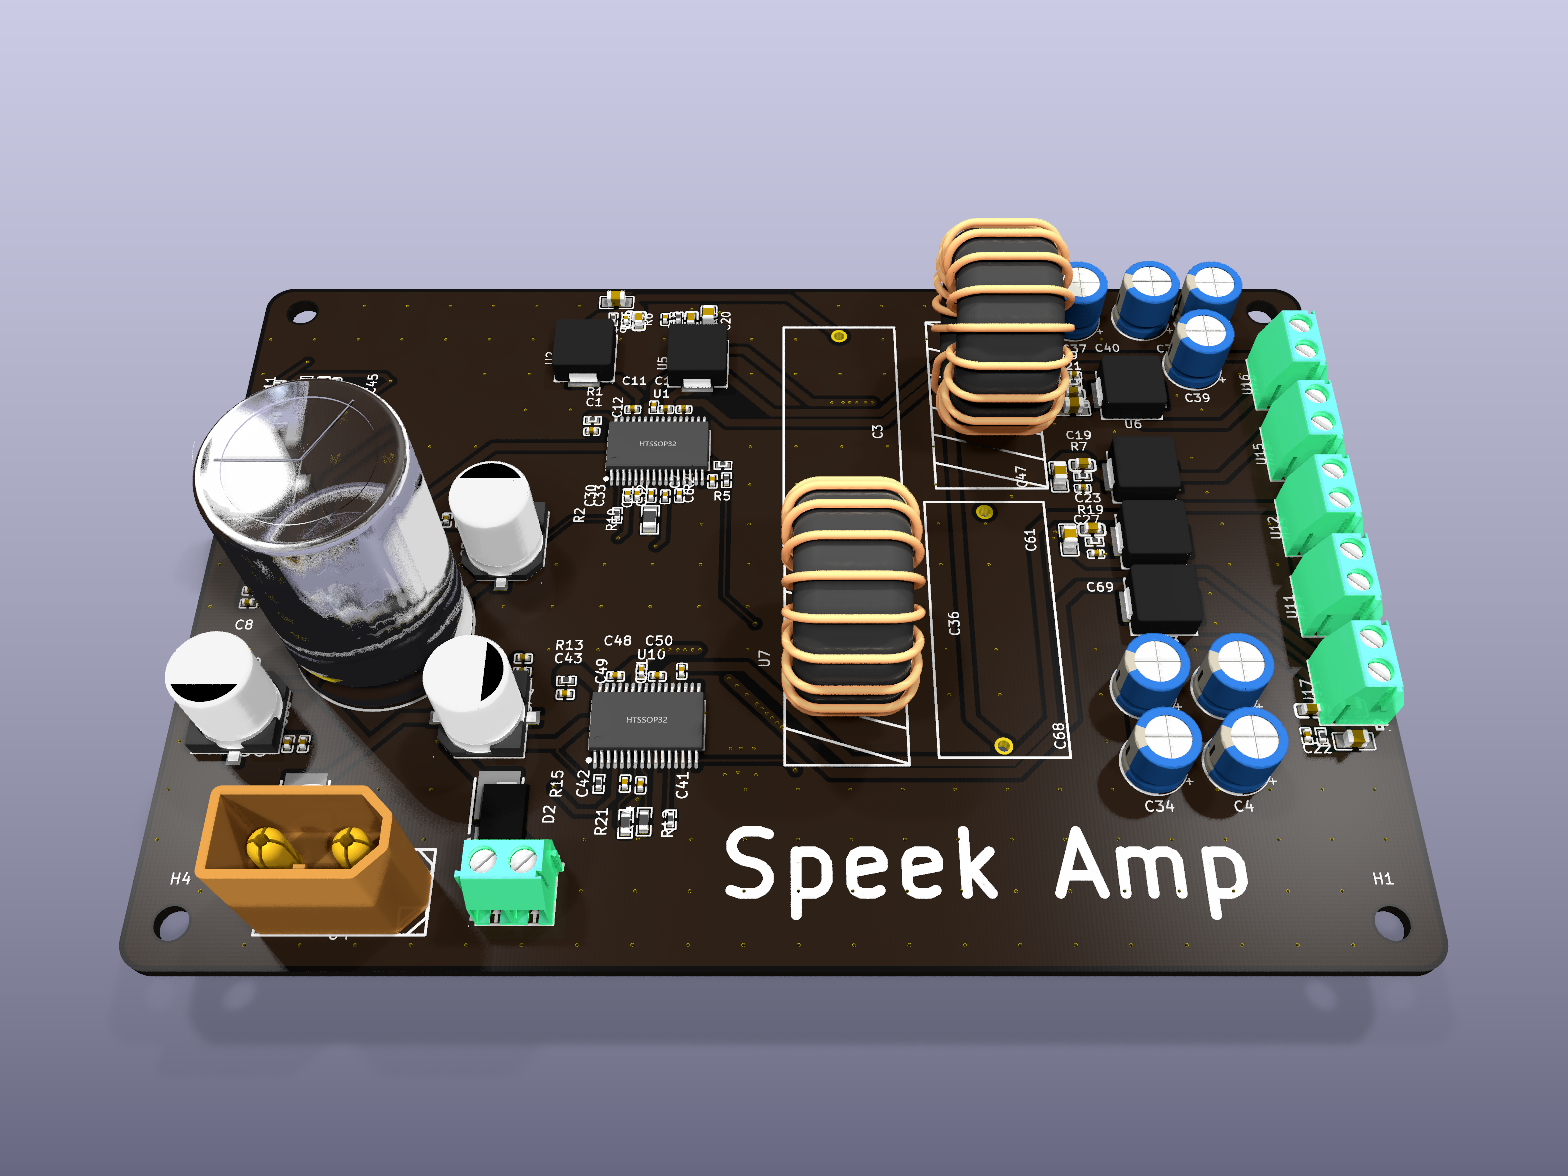
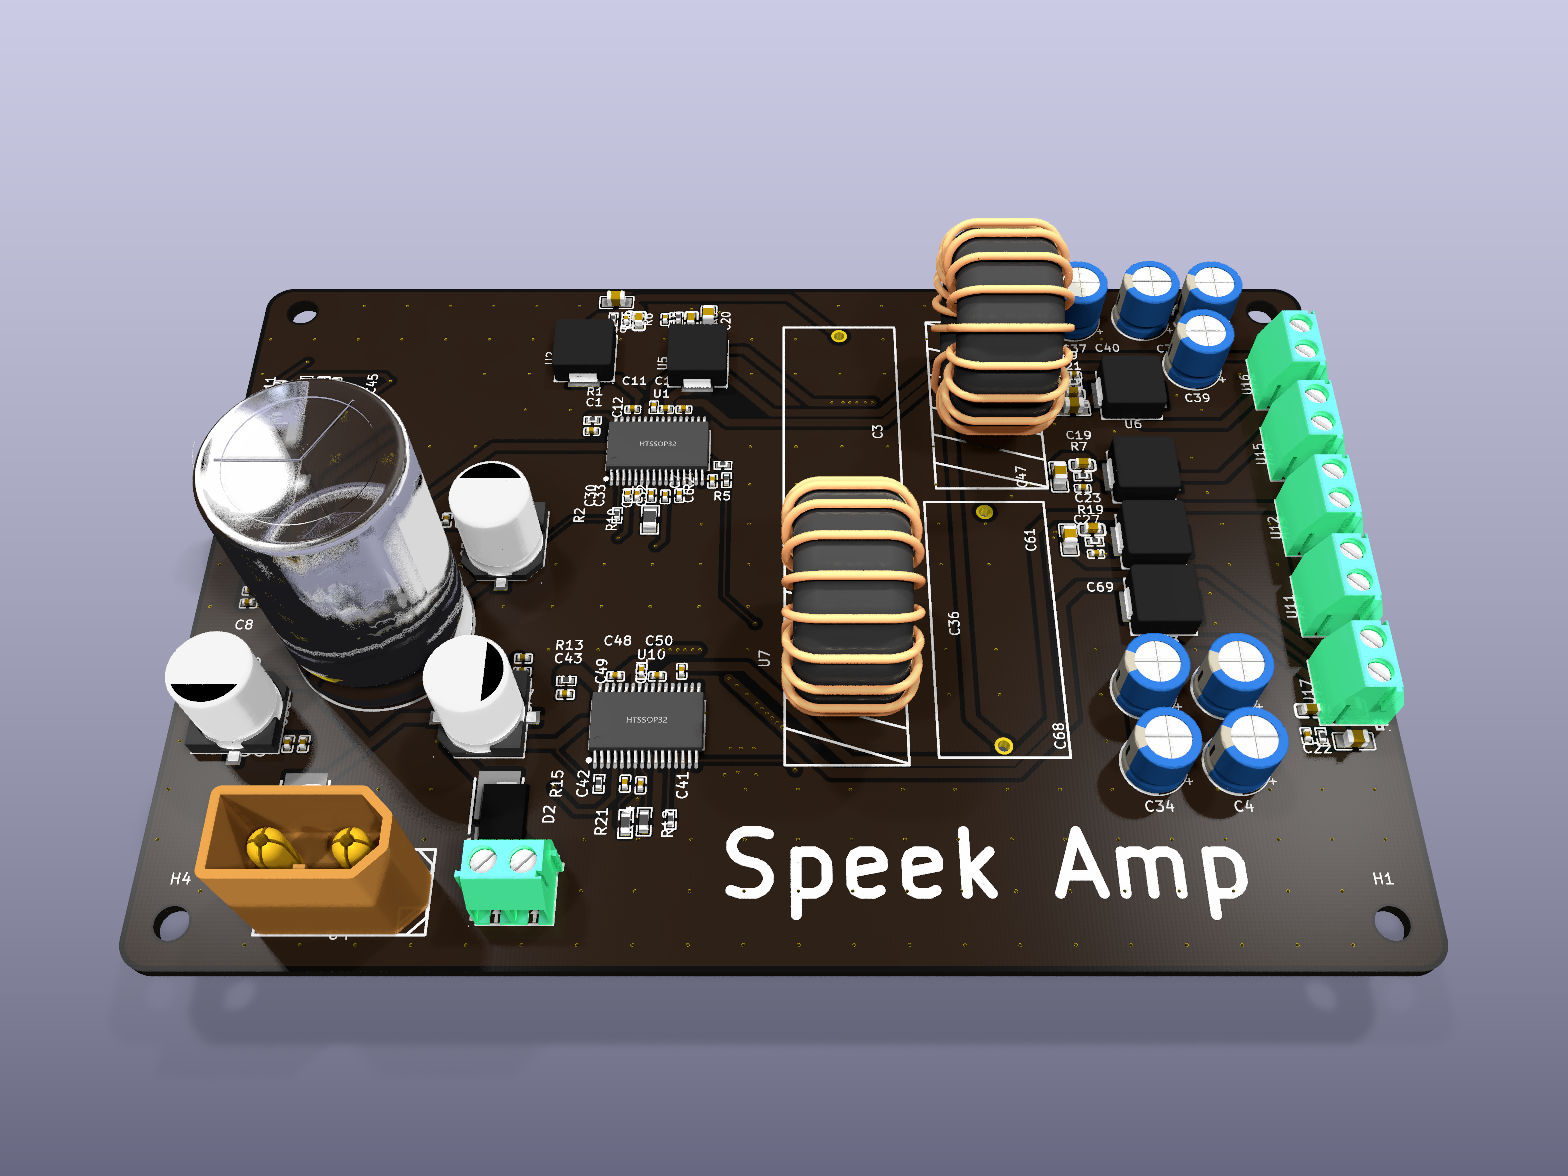
the README

Changed region(s): [[0.125, 0.398, 0.3125, 0.551], [0.1875, 0.551, 0.2188, 0.5816]]

diff --git a/README.md b/README.md
@@ -1,5 +1,7 @@
 # speek
 
+![speek](docs/banner.png)
+
 A modular speaker system. Right now, it has a couple of boards:
 
 - Speek Amp: This is the flagship amplifier. It's a hybrid 2.1 design using the TPA3116D2 chip. It's built to handle 4Ω speakers. It outputs lines for a mono subwoofer, two stereo woofers, and two stereo tweeters.
@@ -18,25 +20,26 @@ Why the monorepo?
 
 Because it's one project even though it has multiple boards. idk, Madhav reccommended it.
 
-- A good README
-- Source files for your project
+Checklist:
+
+- [x] A good README
+- [x] Source files for your project
     - This includes hardware design, firmware, 3D assemblies, etc
-- Production files (if applicable)
+- [x] Production files (if applicable)
     - You'll find gerbers, fabrication BOMs, and PnP files at the following locations:
       - Speek Amp: [speek-amp/PCB/speek_amp/production_real](speek-amp/PCB/speek_amp/production_real)
       - Speek RX: [speek-rx/PCB/speek_rx/production_real](speek-rx/PCB/speek_rx/production_real)
       - Speek PSU: [speek-psu/PCB/speek_psu/production_real](speek-psu/PCB/speek_psu/production_real)
-- JOURNAL.md if journalling on Git
-  - N/A
-- BOM.csv complete with functioning links (where applicable)
-[x] A short description of what your project is
-[x] A couple sentences on why you made the project
-- PICTURES OF YOUR PROJECT
-- A screenshot of a full 3D model with your project
-- A screenshot of your PCB, if you have one
-- A screenshot of your schematic, if you have one
-- A wiring diagram, if you're doing any wiring that isn't on a PCB
-- A BOM in table format at the end of the README
+- \[N/A\] JOURNAL.md if journalling on Git
+- [x] BOM.csv complete with functioning links (where applicable)
+- [x] A short description of what your project is
+- [x] A couple sentences on why you made the project
+- [x] PICTURES OF YOUR PROJECT
+- [x] A screenshot of a full 3D model with your project (see [banner.png](docs/banner.png))
+- [x] A screenshot of your PCB, if you have one
+- [x] A screenshot of your schematic, if you have one
+- [x] A wiring diagram, if you're doing any wiring that isn't on a PCB
+- [x] A BOM in table format at the end of the README
 
 ## How to use?
 
@@ -48,7 +51,11 @@ cd firmware
 pio run -t upload
 ```
 
-For wiring your speaker drivers, the silkscreen should coach you through that. I've also got a wiring diagram. 
+For wiring your speaker drivers, the silkscreen should coach you through that. 
+
+## Wiring Diagram
+
+![Wiring Diagram](docs/wiring_diagram.png)
 
 ## Gallery
 